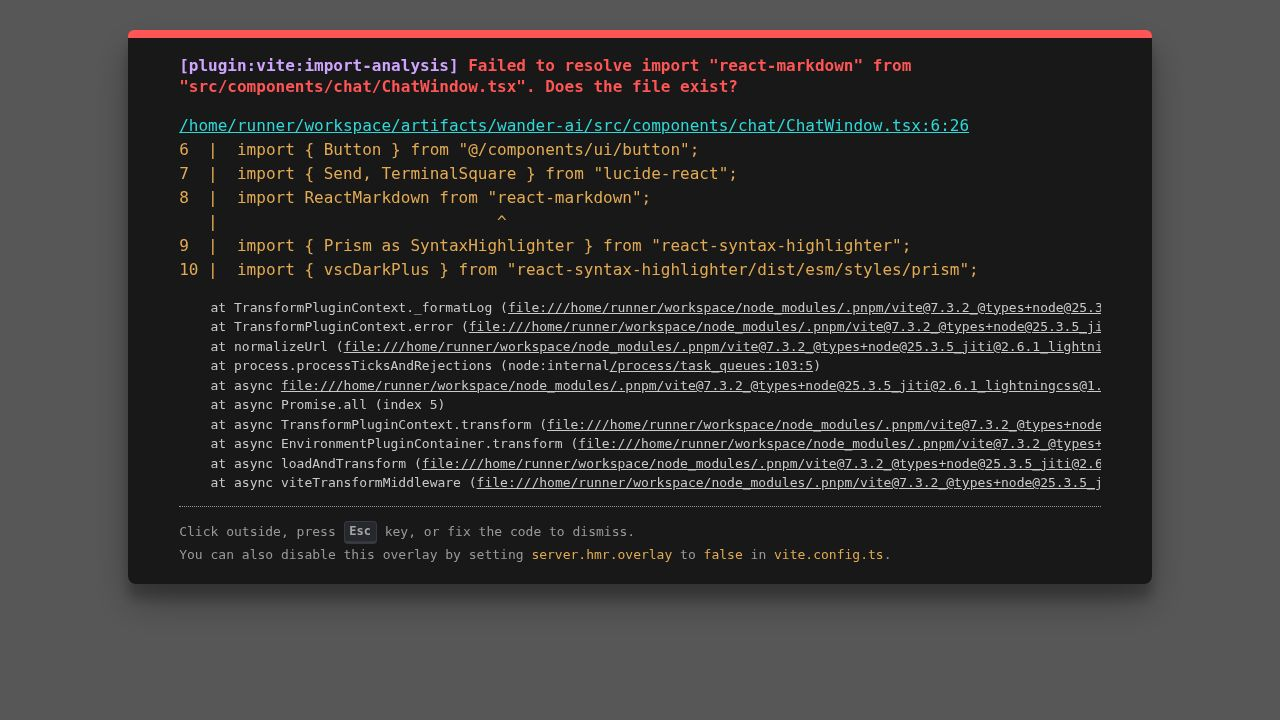
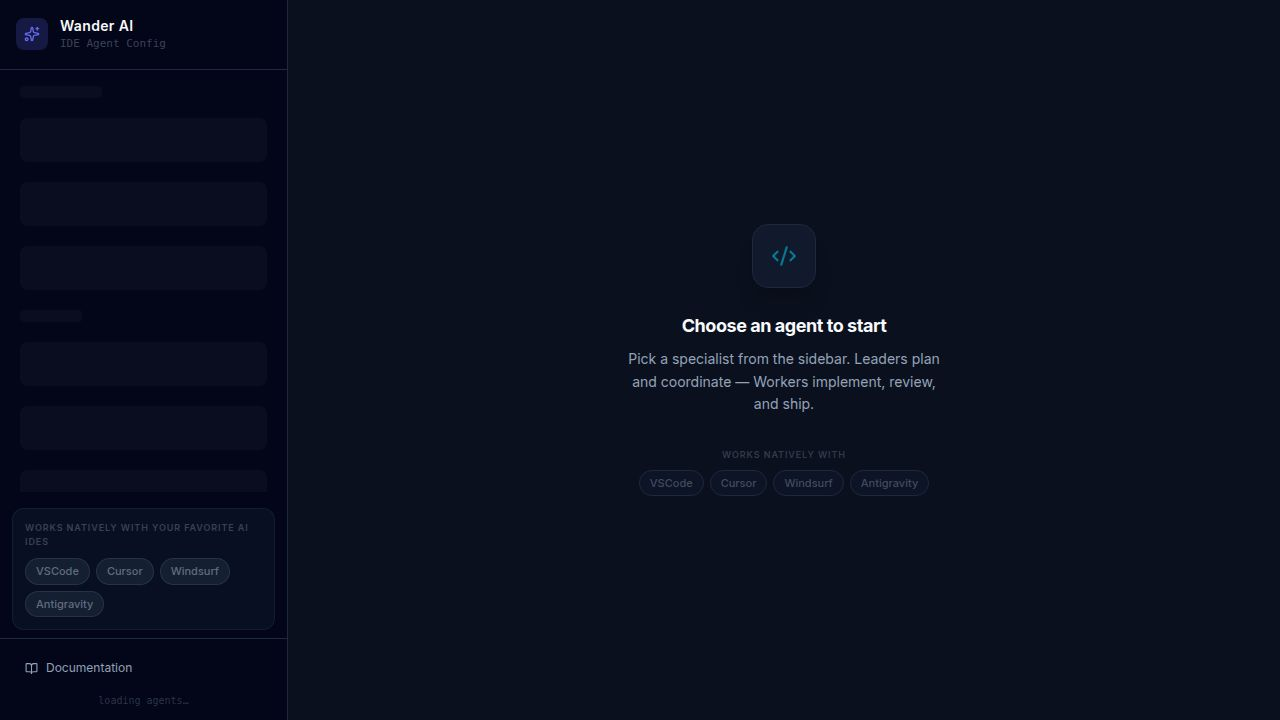
Improve CLI agent selection and configuration loading
Update CLI to handle different agents_config.json formats and include subagents in selection.

Replit-Commit-Author: Agent
Replit-Commit-Session-Id: ddeaab52-ed32-4842-9b62-9f07ac94544c
Replit-Commit-Checkpoint-Type: full_checkpoint
Replit-Commit-Event-Id: 89708a8f-68a1-46a5-bfaf-500ee652fbd1
Replit-Commit-Screenshot-Url: https://storage.googleapis.com/screenshot-production-us-central1/1922ea8f-1e50-4bc1-a9c4-fbe94312498c/ddeaab52-ed32-4842-9b62-9f07ac94544c/ycN4ifv
Replit-Helium-Checkpoint-Created: true

diff --git a/artifacts/wander-cli/bin/cli.js b/artifacts/wander-cli/bin/cli.js
@@ -67,7 +67,8 @@ function loadAgents() {
     cancel('Cannot continue without agent configuration.');
     process.exit(1);
   }
-  return JSON.parse(readFileSync(configPath, 'utf8'));
+  const rawConfig = JSON.parse(readFileSync(configPath, 'utf8'));
+  return Array.isArray(rawConfig) ? rawConfig : rawConfig.agents;
 }
 
 function loadSystemPrompt(agentId) {
@@ -79,15 +80,16 @@ function loadSystemPrompt(agentId) {
 }
 
 function buildSelectOptions(agents) {
-  const leaders = agents.filter(a => a.agent_type === 'leader');
-  const workers = agents.filter(a => a.agent_type === 'worker');
+  const leaders   = agents.filter(a => a.agent_type === 'leader');
+  const workers   = agents.filter(a => a.agent_type === 'worker');
+  const subagents = agents.filter(a => a.agent_type === 'subagent');
 
   return [
     // Leaders group
     ...leaders.map((a, i) => ({
       value: a.id,
       label:
-        (i === 0 ? pc.dim('Leaders  ') : '         ') +
+        (i === 0 ? pc.dim('Leaders   ') : '          ') +
         pc.cyan(a.name),
       hint: a.role,
     })),
@@ -95,8 +97,16 @@ function buildSelectOptions(agents) {
     ...workers.map((a, i) => ({
       value: a.id,
       label:
-        (i === 0 ? pc.dim('Workers  ') : '         ') +
+        (i === 0 ? pc.dim('Workers   ') : '          ') +
         pc.white(a.name),
+      hint: a.role,
+    })),
+    // Subagents group
+    ...subagents.map((a, i) => ({
+      value: a.id,
+      label:
+        (i === 0 ? pc.dim('Subagents ') : '          ') +
+        pc.magenta(a.name),
       hint: a.role,
     })),
   ];

diff --git a/README.md b/README.md
@@ -316,6 +316,6 @@ MIT © [WanderTech Universe](https://github.com/wandertechuniverse)
 
 **Built with intention. Deployed with precision. Shared with the community.**
 
-*WanderTech Universe · DevKreate Labs · FlutterFlow Student Ambassadors Ghana*
+*WanderTech Universe*
 
 </div>